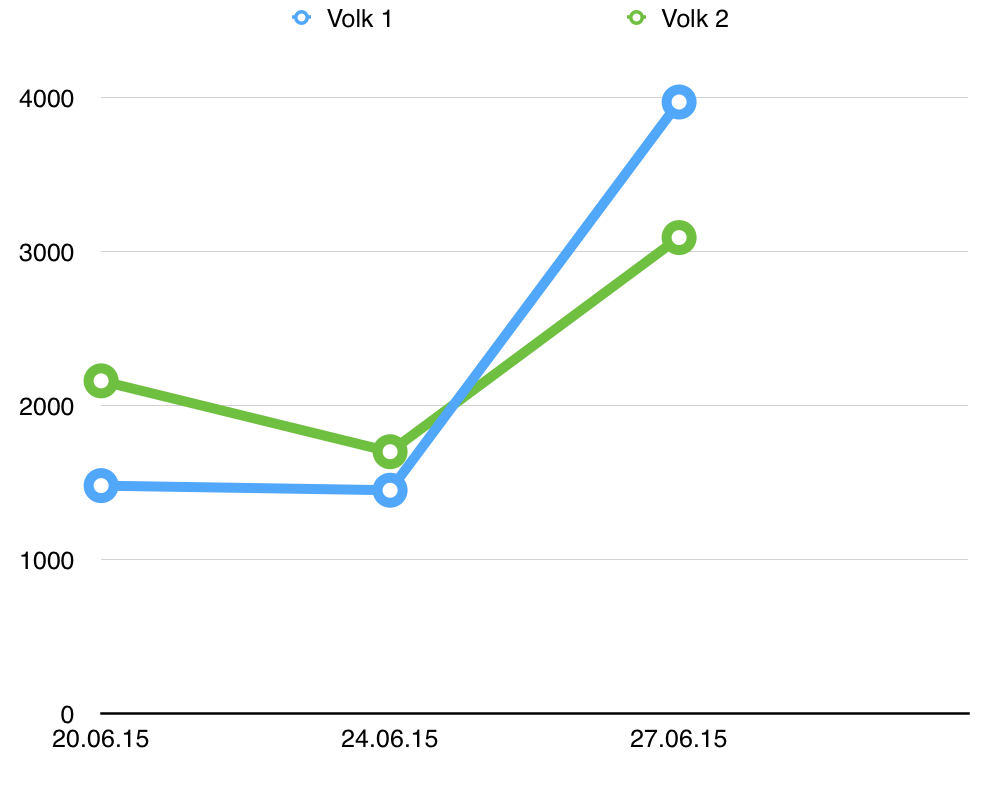
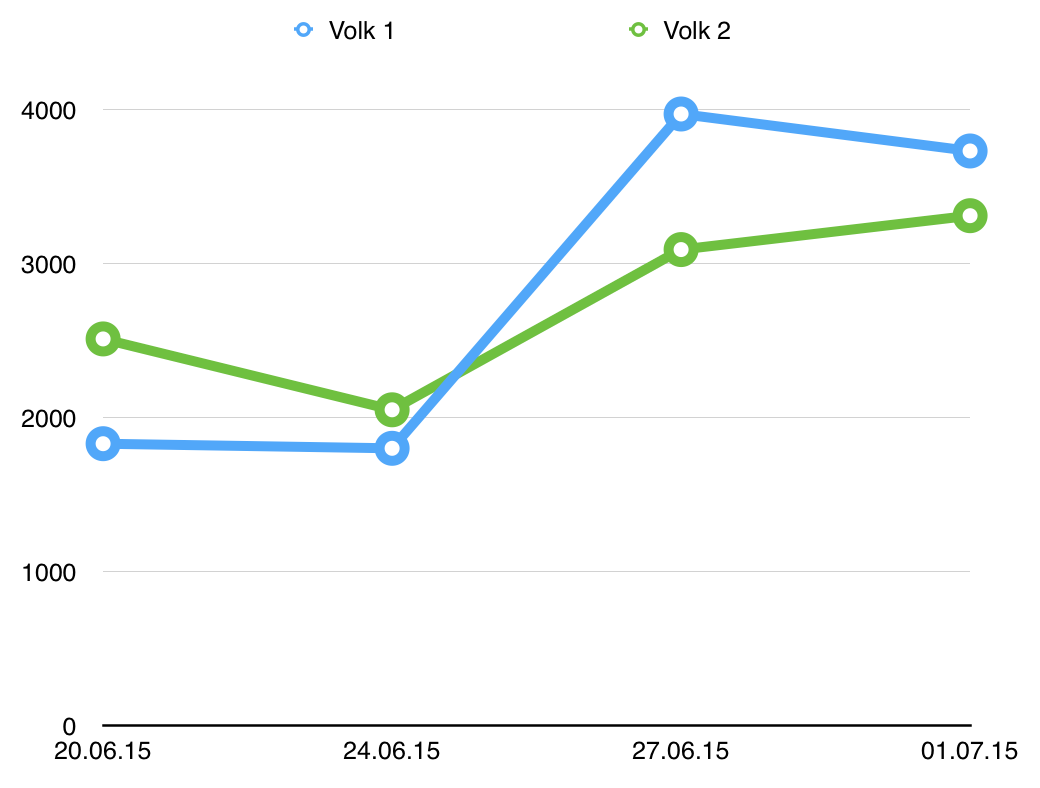
added current data and comment column

diff --git a/volksentwicklung/index.md b/volksentwicklung/index.md
@@ -9,10 +9,11 @@ nosocial: true
 
  <div class="imagecenter" style="max-width:600px;"><img class="img-responsive img-rounded" src="/volksentwicklung/volksentwicklung.png" alt="Volksentwicklung in Gramm" />Gewicht in Gramm</div>
  
-|Datum       | Volk 1| Volk 2|
-|:-----------|:------|:------|
-| 20.06.2015 |  1480 |  2160 |
-| 24.06.2015 |  1450 |  1700 |
-| 27.06.2015 |  3970 |  3090 |
+|Datum       | Volk 1| Volk 2| Bemerkung |
+|:-----------|:------|:------|:----------|
+| 20.06.2015 |  1480 |  2160 | beide Völker sitzen auf vier Rähmchen |
+| 24.06.2015 |  1450 |  1700 | Volk 2 hat ein Rähmchen erhalten |
+| 27.06.2015 |  3970 |  3090 | beide Völker sitzen auf 10 Rähmchen |
+| 01.07.2015 |  3730 |  3310 | beide Völker haben reichlich Stifte und noch nicht ausgebaute Mittelwände |
 {: class="table table-striped table-condensed table-responsive"}
 
